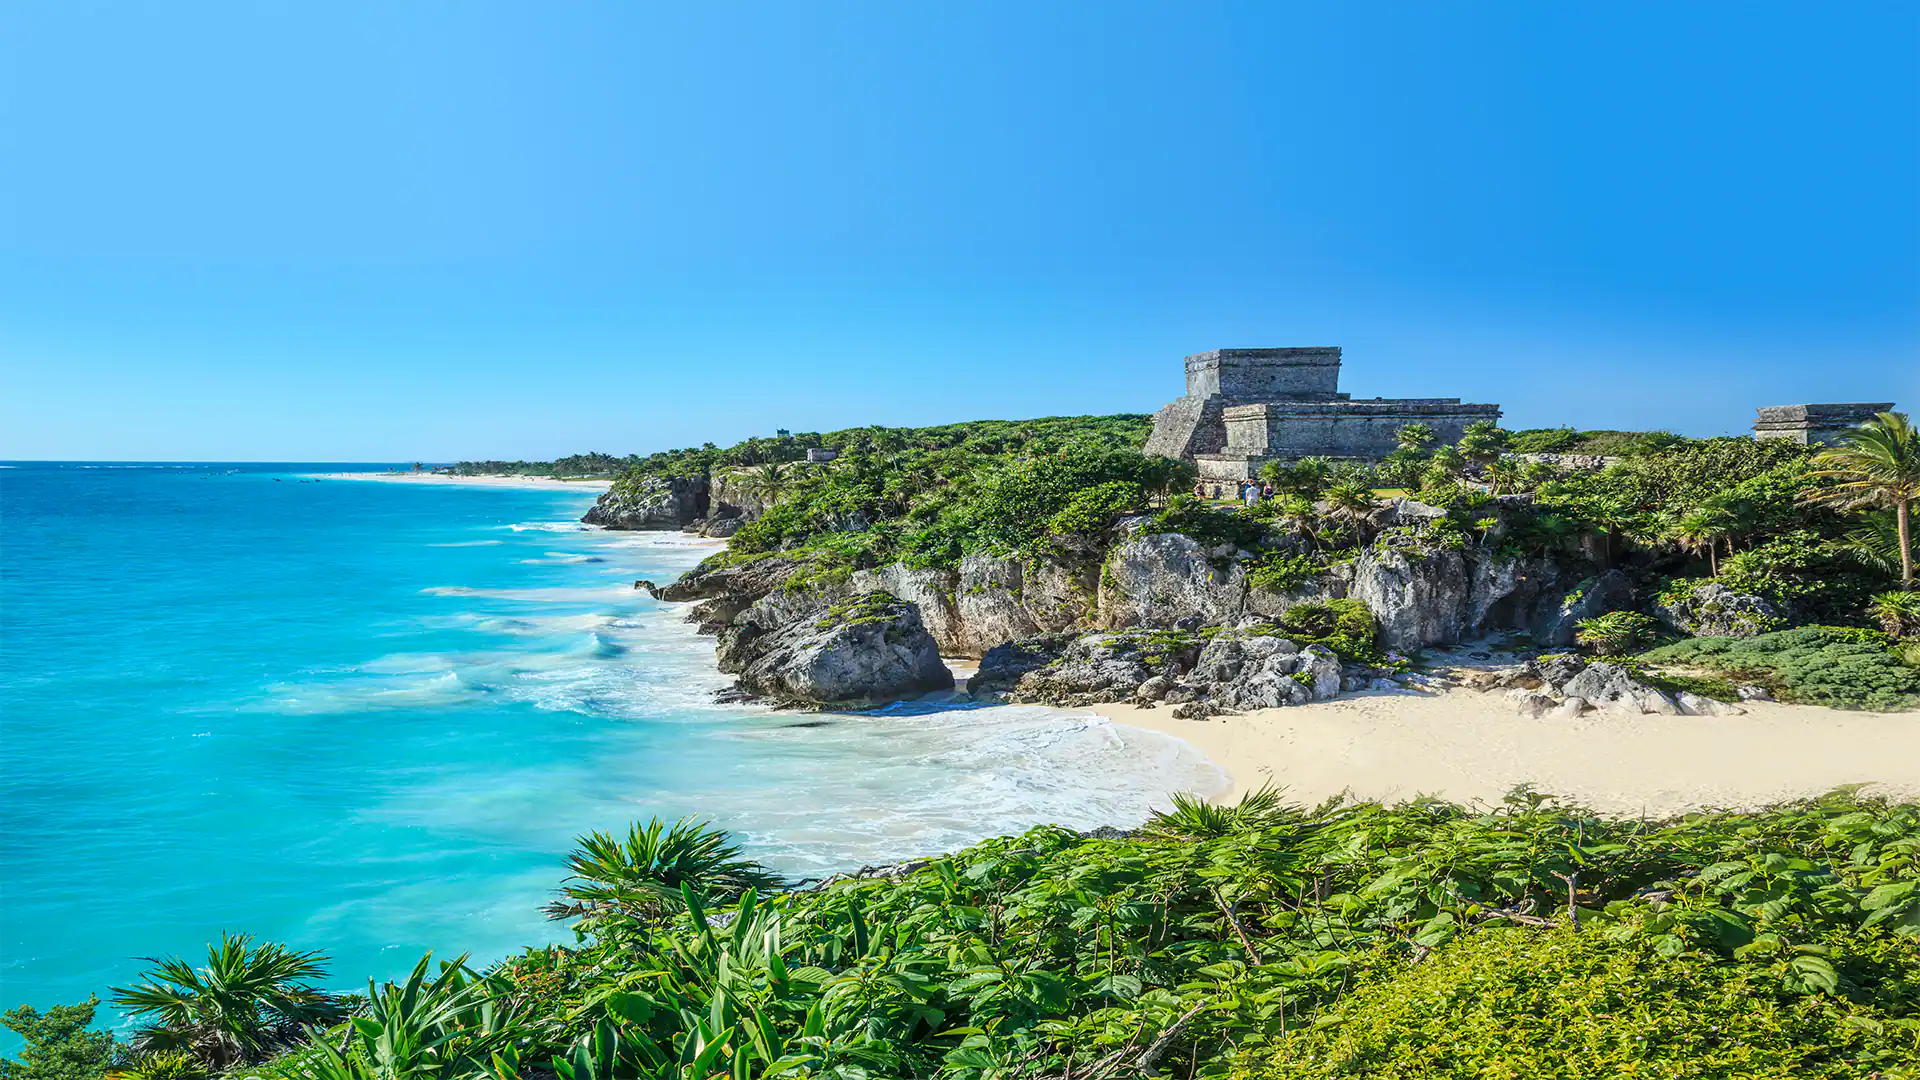
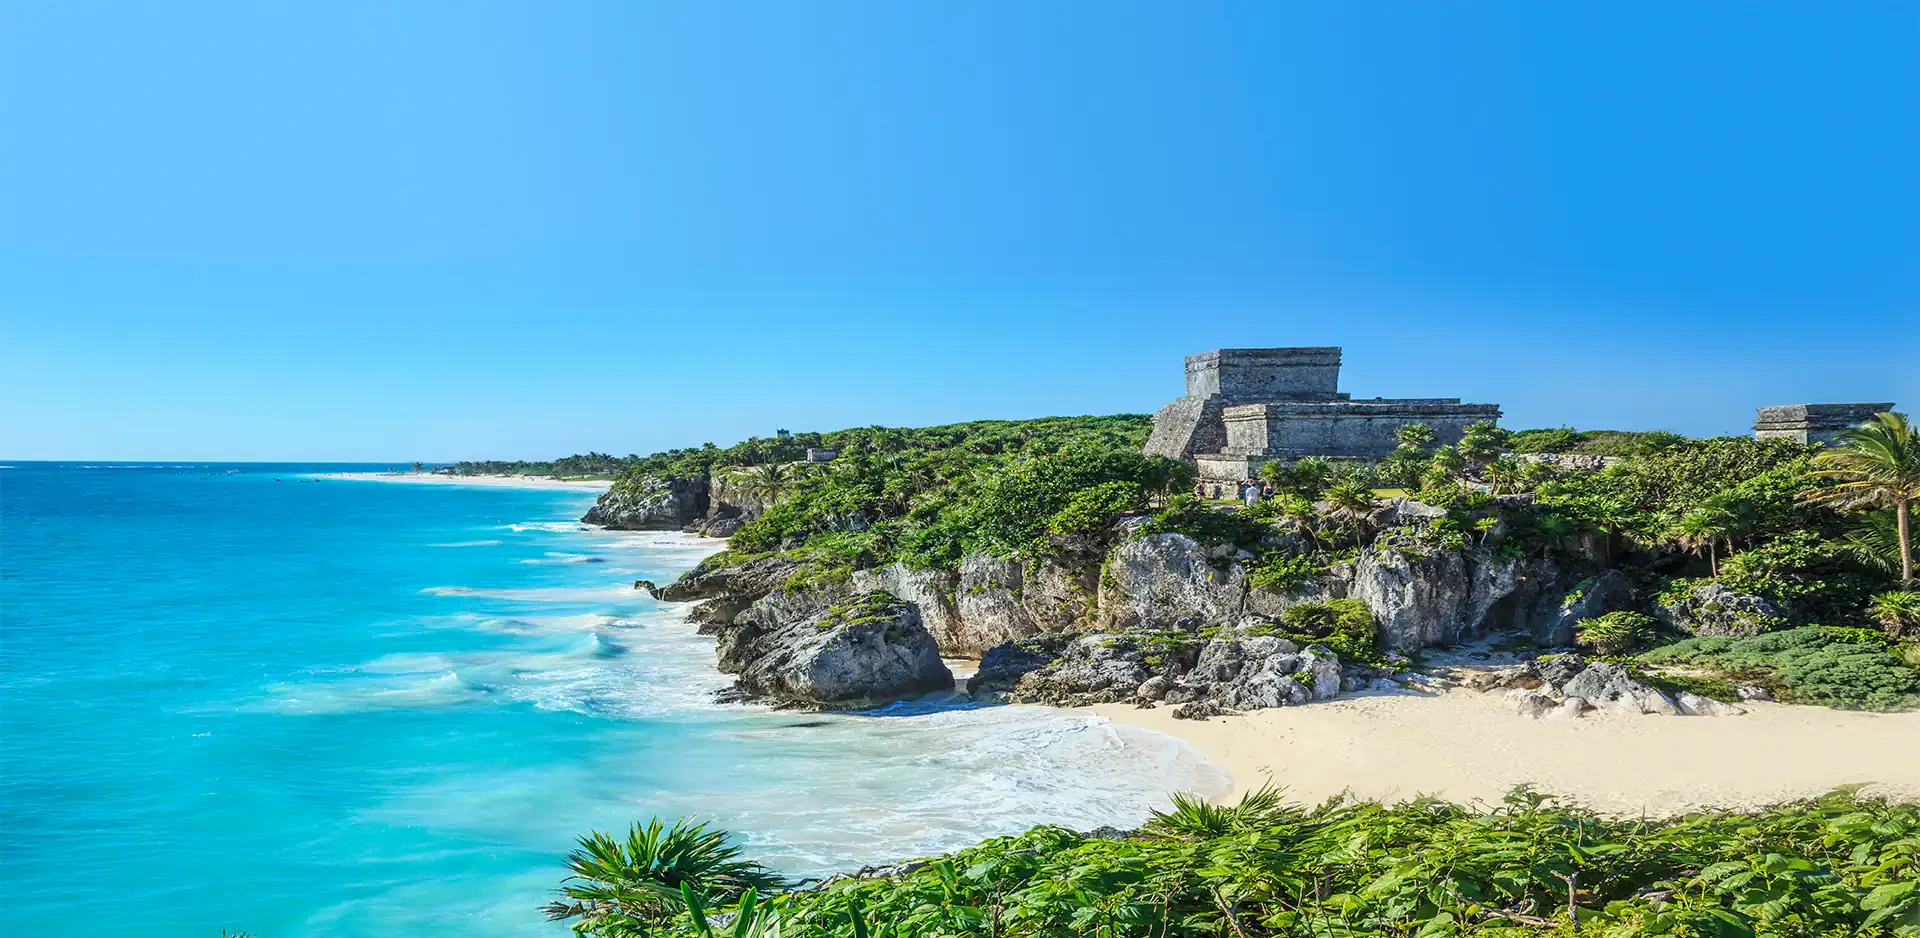
fp update

diff --git a/final project Scoots/index.html b/final project Scoots/index.html
@@ -21,7 +21,7 @@
 <link href="https://fonts.googleapis.com/css2?family=Zeyada&display=swap" rel="stylesheet">
 </head>
 <body>
-    <header>        
+    <header>
         <div class="heading">
             <img class="scoots_logo" src="images/scoots_logo.PNG" alt="scoots_logo" loading="lazy">
             <h1 class="herotitle">Scoots</h1>
@@ -33,21 +33,34 @@
                 <a href="" title="Contact">Contact</a>
             </nav>
         </div>
-        <div class="hero">
+        <picture>
+            <source srcset="images/cozumel_large.webp" media="(min-width: 1000px)">
             <img class="heroimage" src="images/cozumel_3.webp" alt="Road trip landscape">
+        </picture>
+        <div class="hero">
+            <!--<img class="heroimage" src="images/cozumel_3.webp" alt="Road trip landscape">-->
         <h1 class="herowelcome">Welcome to Cozumel !</h1>
         </div>
-        
     </header>
-    <main>main</main>
+    <main>
+        <div class="weather_card">
+            <p>weather</p>
+            <div>
+                <p>Temperature <br><span id="current-temp"></span></p>
+                <figure>
+                    <img id="weather-icon" src="" alt="">
+                    <figcaption></figcaption>
+                </figure>
+            </div>
+        </div>
+        <div></div>
+    </main>
     <footer>
         <div>
             <img class="scoots_logo_small" src="images/scoots_logo.PNG" alt="scoots_logo" loading="lazy">
             <h3>Scoots</h3>
         </div>
-        
         <p class="con_us">Contact Us</p>
-        
         <div class="contact_info">
             <h2>Location 1</h2>
             <p>5a Av. Nte. entre calle 2, Centro, 77600 Cozumel, Q.R., Mexico</p>

diff --git a/final project Scoots/scripts/weather.js b/final project Scoots/scripts/weather.js
@@ -1,0 +1,29 @@
+const currentTemp = document.querySelector('#current-temp');
+const weatherIcon = document.querySelector('#weather-icon');
+const captionDesc = document.querySelector('figcaption');
+const url = 'https://api.openweathermap.org/data/2.5/weather?lat=22.41526&lon=114.08942&appid=b819e64251633b78d3925158881882f3';
+
+  async function apiFetch() {
+    try {
+      const response = await fetch(url);
+      if (response.ok) {
+        const data = await response.json();
+        displayResults(data);
+      } else {
+          throw Error(await response.text());
+      }
+    } catch (error) {
+        console.log(error);
+    }
+  }
+  apiFetch();
+
+  function displayResults(data) {
+    const Celsiustemp = Math.round(data.main.temp - 273.15);
+    currentTemp.innerHTML = `${Celsiustemp}&deg;C`;
+    const iconsrc = `https://openweathermap.org/img/w/${data.weather[0].icon}.png`;
+    let desc = data.weather[0].description;
+    weatherIcon.setAttribute('src', iconsrc);
+    weatherIcon.setAttribute('alt', desc);
+    captionDesc.textContent = `${desc}`;
+  }

diff --git a/final project Scoots/styles/base.css b/final project Scoots/styles/base.css
@@ -46,11 +46,11 @@ body {
 
 .heroimage {
     width: 100%;
+    padding: 5PX;
 }
 
 .hero {
     background-size: cover;
-    height: 300px;
 }
 
 .herowelcome {
@@ -89,7 +89,21 @@ body {
 #menu.open::before {
     content: "X";
 }
+/*-----------------------------------main-------------------------------------*/
 
+.weather_card {
+    width: 100%;
+    margin: 5px;
+    padding: 5px;
+    font-size: 25px;
+    word-spacing: 10px;
+}
+
+#weather-icon {
+    width: 80px;
+}
+
+/*-----------------------------------footer-------------------------------------*/
 footer {
     text-align: center;
 }

diff --git a/final project Scoots/styles/large.css b/final project Scoots/styles/large.css
@@ -7,12 +7,13 @@
         width: 100px;
     }
     
-    .navigation {
+    .heading .navigation {
         display: flex;
-        margin: auto;
+        margin:10px ;
         padding: 10px;
+        width: 75%;
     }
-    
+
     .navigation a {
         margin: auto;
         font-size: 35px;
